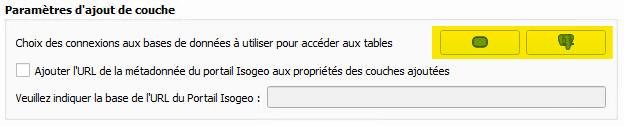
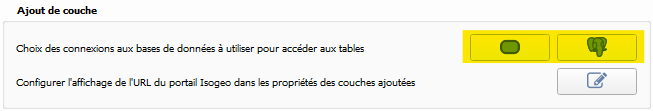
#39

diff --git a/fr/usage/configuration.md b/fr/usage/configuration.md
@@ -65,7 +65,7 @@ Afin d'éviter d'avoir à choisir la connexion à chaque ajout de couche, il est
 
 ![](/assets/config_db_connection_open_dialog_btn.png)
 
-Une interface graphique dédiée (ci-dessous) est accessible en cliquant sur un bouton situé dans la rubrique "Paramètres d'ajout de couche" de l'onglet "Paramètres" du plugin (ci-dessus, bouton de gauche pour les connexions Oracle et bouton de droite pour les connections PostgreSQL).
+Une interface graphique dédiée (ci-dessous) est accessible en cliquant sur un bouton situé dans la rubrique "Ajout de couche" de l'onglet "Paramètres" du plugin (ci-dessus, bouton de gauche pour les connexions Oracle et bouton de droite pour les connections PostgreSQL).
 
 ![](/assets/config_pgdb_connection_dialog.png)
 
@@ -102,14 +102,29 @@ Le plugin ne propose plus qu'une option d'ajout à l'utilisateur, correspondant 
 Cette fonctionnalité implique deux prérequis :
 
 * certains des catalogues partagés au plugin QGIS le sont également au Portail Isogeo
-* certaines des fiches de métadonnées partagées remplissent [les conditions permettant l'ajout de couches au canevas](/usage/display.md#add_criteria)
+* certaines des fiches de métadonnées partagées remplissent les conditions permettant l'ajout de couches au canevas:
+  * [données fichier](/usage/display.md#add_files)
+  * [tables PostGIS ou Oracle Spatial](/usage/display.md#add_tables)
+  * [couches de services géographiques](/usage/display.md#add_services)
 
-Si ces 2 prérequis sont satisfaits, l'URL de la fiche de métadonnées du Portail Isogeo correspondant à la couche ajoutée au canevas apparaîtra dans les "Propriétés" de cette couche (dans le champ "Url de la donnée" de la rubrique "Description" de l'onglet "QGIS Server") :
+Si ces 2 prérequis sont satisfaits, l'URL de la fiche de métadonnées du Portail Isogeo correspondant à la couche ajoutée au canevas sera affichable dans les "Propriétés" de cette couche (dans le champ "Url de la donnée" de la rubrique "Description" de l'onglet "QGIS Server") :
 
 ![Propriétés de la couche, onglet "QGIS Server"](/assets/layer_properties_portal_data_url_fr.png)
 
-Afin d'obtenir ce résultat, il est nécessaire de cocher la case correspondante dans l'onglet "Paramètres" du plugin et d'indiquer dans le champ de texte prévu à cet effet la base de l'URL du Portail comme ci-dessous :
+Afin d'obtenir ce résultat, il faut passer par une courte étape de configuration.
 
-![Paramètres du Portail isogeo](/assets/settings_isogeo_portal_fr.png)
+![](/assets/layer_properties_portal_data_url_open_dialog_btn.png)
 
-> La [recherche](/usage/search.md#reset) doit être réinitialisée pour prendre en compte les modifications apportées au champ ci-dessus.
+La boîte de dialogue (ci-dessous) est accessible en cliquant sur un bouton situé dans la rubrique "Ajout de couche" de l'onglet "Paramètres" (ci-dessus).
+
+![](/assets/layer_properties_portal_data_url_dialog.png)
+
+Avant d'ajouter l'URL de la metadonnée du Portail Isogeo aux propriétés de la couche, le plugin doit générer cet URL. Pour ce faire, il se base sur la valeur indiquée dans la zone de saisie de texte. Une fois généré, l'URL est ajouté aux propriétés des couches ajoutées uniquement si la case "Ajouter l'URL de la métadonnée du portail Isogeo..." est cochée.
+
+![](/assets/layer_properties_portal_data_url_dialog_input.png)
+
+![](/assets/layer_properties_portal_data_url_dialog_chb.png)
+
+de cocher la case correspondante dans l'onglet "Paramètres" du plugin et d'indiquer dans le champ de texte prévu à cet effet la base de l'URL du Portail comme ci-dessous :
+
+> La [recherche](/usage/search.md#reset) doit être réinitialisée pour prendre en compte les modifications effectuées dans la boîte de dialogue "Configuration de l'ajout de l'URL du portail".
